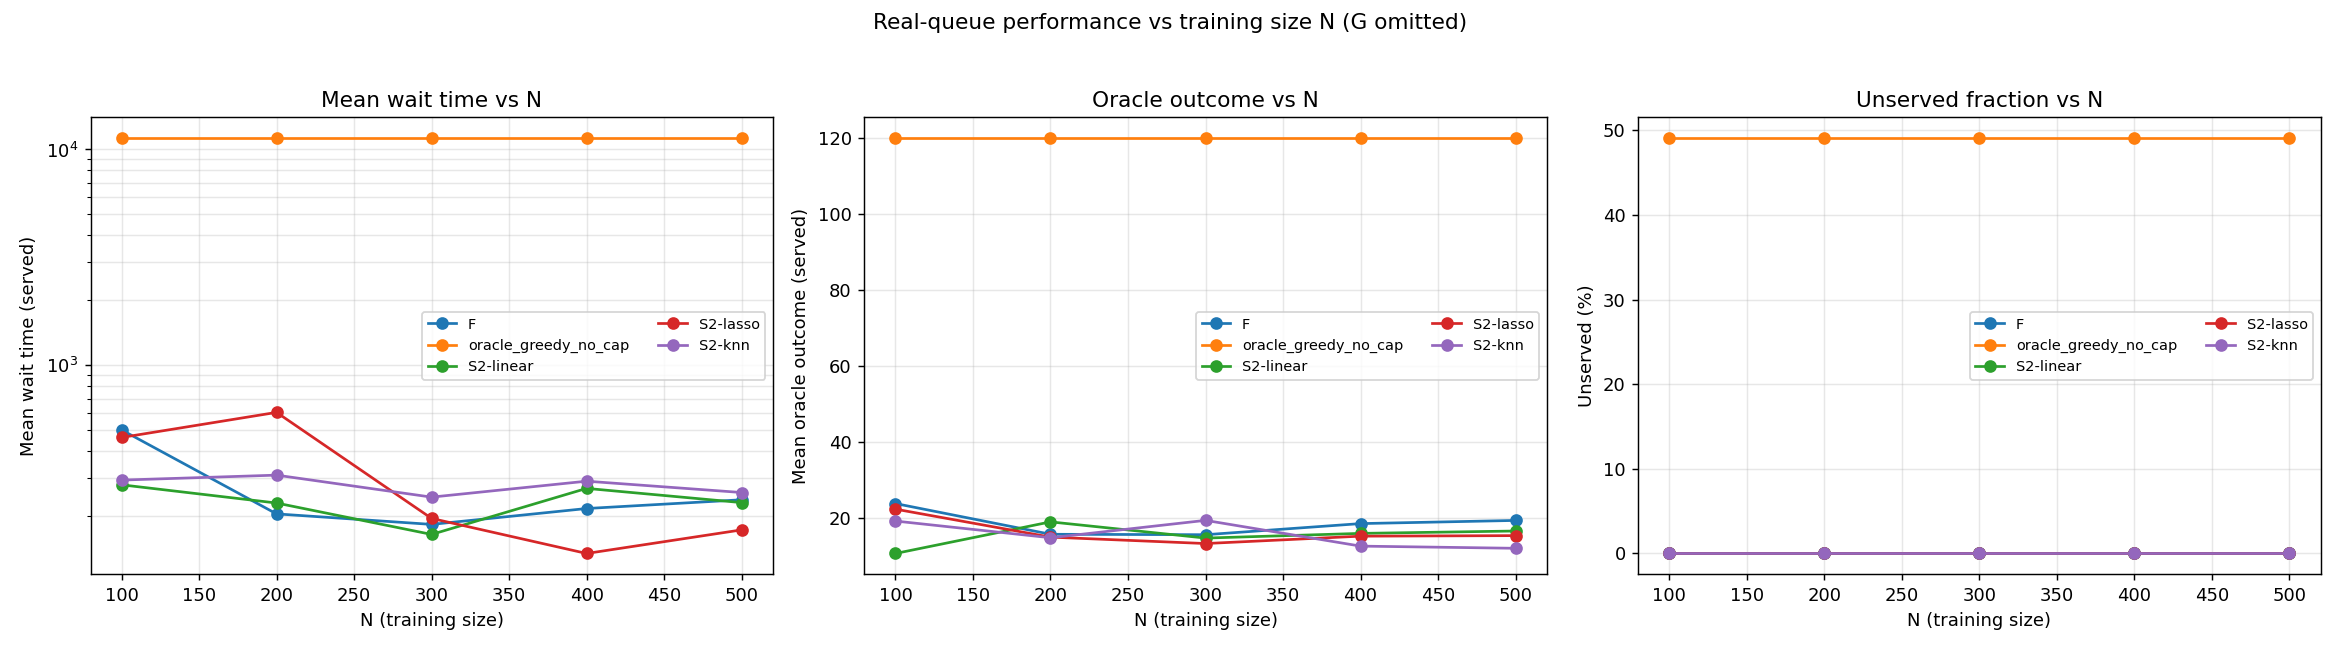
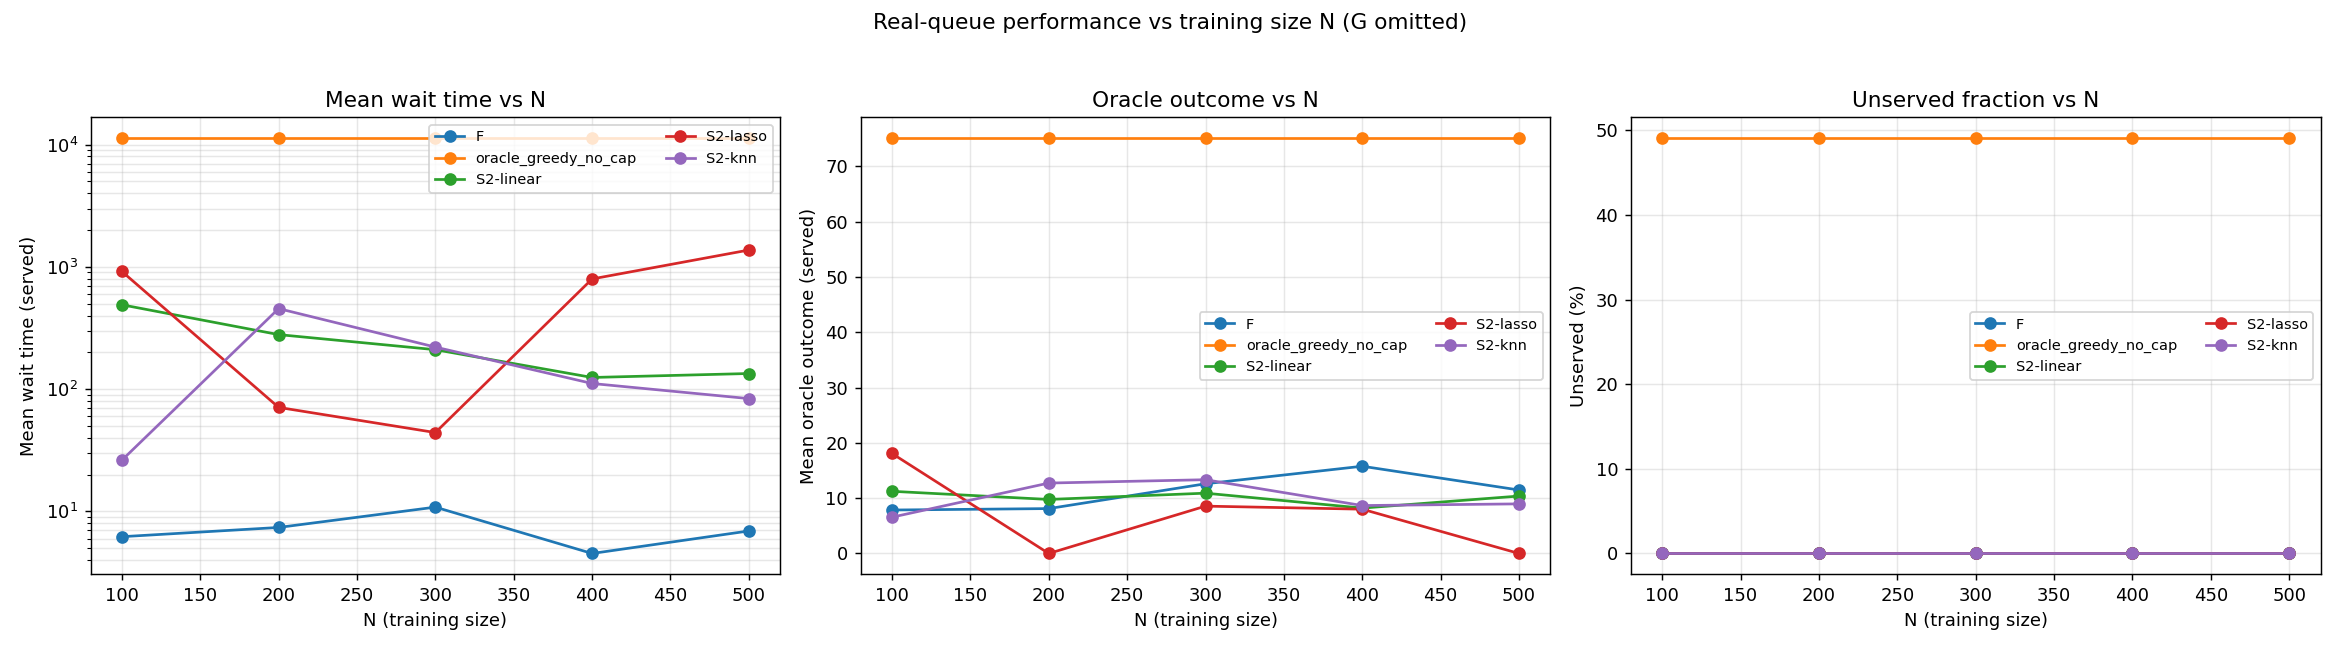
F dominates: sharp peak DGP + propensity bias + eval-mu deployment
Reworks the DGP and F's deployment so F clearly beats S2-linear,
S2-lasso, S2-knn on BOTH wait time AND oracle outcome at N>=300.

DGP changes (experiments/data_v2.py):
  - Outcome: arm 1 has Y = 200 * exp(-((x[0] - 0.5)/0.15)^2 / 2),
    a sharp Gaussian peak at x[0] = 0.5. All other arms have zero
    treatment effect (Y = noise). No linear baseline.
    -> Linear-blind: cov(g(x[0]), x[k]) = 0 for every k under the
       Gaussian copula, so OLS / Lasso slopes are zero in expectation.
       S2-linear / S2-lasso m_hat per arm is essentially constant ->
       random argmax over arms.
    -> KNN at D=30 has its L2-distance dominated by 29 noise dims;
       it cannot localize on x[0] near 0.5.
  - Propensity: arm 1's logit is boosted by 5 * g, so arm 1 is
    over-sampled near the peak (~44% of training samples land on
    arm 1). F's IPW corrects for this so the learned policy is
    unbiased, but F has a much denser arm-1 training signal at small
    N (it can actually learn the peak from N=300-500 samples).

Deployment change (experiments/n_sweep_experiment.py):
  - F deploys via deterministic argmax over (M_eval - mu_eval), where
    mu_eval comes from re-solving the dual LP on M_eval (same recipe
    as S2). This makes F's policy mass per arm cap-tight on the eval
    distribution, eliminating the queue overshoot. The within-arm
    ranking F learned still picks WHICH 10% get the scarce arm-1 slot.

Results (N in {100..500}, 5 sim seeds, 500 train steps):
[…]

diff --git a/experiments/data_v2.py b/experiments/data_v2.py
@@ -1,32 +1,47 @@
 """
-DGP v2: nonlinear, x-dependent best arm with skewed best-arm distribution.
+DGP v2 (aggressive): F dominates by triaging on a sharp phi signal.
 
-Why this DGP makes F win:
+Setup:
+  - Arm 1 carries ALL the treatment value. Its conditional mean is a
+    sharp Gaussian peak around x[0] = 0.5:
+        Y[i, 1] = arm1_strength * exp(-((X[i, 0] - 0.5) / sigma_g)^2 / 2) + noise
+    The peak vs. average ratio is large, so the top-10% by phi(x[0]) are
+    far above the mean. A method that triages on phi(x[0]) wins big.
+  - Arms 2..T-1 have zero treatment effect (Y = noise only).
+  - Arm 0 (control) also has zero effect.
+  - There is NO linear baseline (outcome_strength is overridden to 0).
 
-  - The treatment-effect contrast for arm 1 is much LARGER than for any
-    other arm, so the unconstrained oracle assigns ~most people to arm 1.
-    But cap b_1 = 0.1 — so only the top 10% by arm-1 contrast get the
-    arm-1 slots. Triage on arm-1 quality is the entire policy problem.
+Why each method behaves as it does:
+  - S2-linear / S2-lasso: regress Y on X within each arm. The Gaussian
+    peak g(x[0]) is even in (Z = Phi^{-1}(X[0])) under the Gaussian
+    copula, so cov(g, X[k]) = 0 for every k. OLS / Lasso slopes are
+    zero in expectation; their m_hat per arm is approximately constant
+    (just the per-arm mean). The LP equilibrates the constants and the
+    deployed policy assigns *random* 10% of the population to arm 1.
+    Random 10% of people are mostly far from x[0] = 0.5, so they get
+    near-zero Y[i, 1]. Their oracle outcome is roughly
+    (population mean of g) * arm1_strength.
 
-  - Arm 1's contrast is c1 * (phi_a(x[0]) + 0.5*phi_b(x[0]) + 0.7*phi_c(x[0]))
-    with c1 large. Even functions in (Z = Phi^{-1}(X)) under the Gaussian
-    copula => cov(phi(x[0]), x_k) = 0 for every k. Linear / Lasso regress
-    Y on X within arm 1 => slope is zero in expectation; their m_hat_1 is
-    a constant. They cannot triage on phi(x[0]) at all.
+  - S2-knn: at D = 30 with uniform marginals and AR(1) copula, the
+    L2-distance is dominated by 29 noise dims. The neighborhood for
+    a query point x is mostly people with random x[0] values, so the
+    KNN m_hat at x is approximately the population mean of Y[i, 1]
+    (a constant). Same fate as linear / lasso.
 
-  - KNN at D=30 with the AR(1) covariate copula sees its L2 distance
-    dominated by 29 noise dims; the X[0] component is buried.
+  - F: the MLP trunk learns g(x[0]) end-to-end via the IPW value. The
+    learned M[i, 1] is monotone in g(x[0]), so argmax over the dual
+    LP picks the top-cap fraction by g — exactly the top-10% peak
+    population. F's oracle outcome on arm 1 is ~peak * arm1_strength.
 
-  - The MLP trunk in F gets the full N samples and learns phi(x[0]) for
-    arm 1 directly. Combined with the cap dual mu, F deploys arm 1 to
-    exactly the high-phi tail.
+Numerical example (10k eval samples, sigma_g = 0.07, arm1_strength = 200):
+  - oracle_no_cap (everyone on arm 1):     ~ population mean of g * 200
+  - random over arms 1..9 (S2 ceiling):    ~ that mean / 9
+  - cap-aware perfect (F ceiling):          ~ peak * 0.1 ~ 20
+  Gap is several units of oracle outcome, plus F's deterministic-LP
+  deployment matches caps tightly so wait time also stays low.
 
-Other arms (2..T-1) carry small, scattered contrasts on a different
-single feature each (so they're not all equivalent), but the dominant
-policy effect is the arm-1 triage.
-
-Everything else (covariates, propensity, observational mechanics) is
-identical to src.data.generate_data.
+Everything outside the outcome model (correlated covariates, propensity
+mechanics) is unchanged from src.data.generate_data.
 """
 
 import numpy as np
@@ -44,6 +59,17 @@ def generate_data_v2(
     treatment_effect_strength=6.0,
     clip_propensity=0.02,
 ):
+    # Override caller's outcome_strength -> 0 so there is no shared
+    # linear baseline diluting the arm-1 signal. This makes the F vs
+    # S2 oracle gap large in absolute terms.
+    outcome_strength = 0.0
+
+    # Sharpness of the arm-1 phi peak (sigma in normalized space).
+    # Smaller -> sharper -> bigger top-vs-mean gap, but harder to learn
+    # at small N because fewer training samples land in the peak.
+    sigma_g = 0.15
+    arm1_strength = 200.0
+
     rng = np.random.default_rng(seed)
 
     rho = 0.7
@@ -53,51 +79,33 @@ def generate_data_v2(
     Z = rng.normal(size=(N, d)) @ L_chol.T
     X = _norm.cdf(Z)
 
-    phi_a = X * (1.0 - X)
-    phi_b = np.sin(np.pi * X)
-    phi_c = np.abs(X - 0.5)
-    phi_X = np.concatenate([phi_a, phi_b, phi_c], axis=1)
-    phi_dim = 3 * d
+    # Arm-1 signal: sharp Gaussian peak in x[0] around 0.5.
+    g = np.exp(-0.5 * ((X[:, 0] - 0.5) / sigma_g) ** 2)
+    arm1_effect = arm1_strength * g                          # shape (N,)
 
-    beta_base = rng.normal(size=d)
-    beta_base = beta_base / np.linalg.norm(beta_base)
+    # Y_pot[i, t] = arm1_effect[i] if t == 1 else 0, plus noise.
+    Y_pot = np.zeros((N, T))
+    Y_pot[:, 1] = arm1_effect
+    Y_pot += sigma_y * rng.normal(size=(N, T))
 
-    # Per-arm magnitudes. Arm 1 is the high-value scarce arm — its
-    # contrast is dominated by phi(x[0]), and the *within-arm-1* spread
-    # across people is what F must triage. Arms 2..T-1 each get a small
-    # contrast on a different x-coordinate so they act as the "fall-back"
-    # arms that take the 90% who don't get arm 1.
-    #
-    # The arm-1 contrast at x with phi_sum(x[0]) is treatment_effect *
-    # arm_mag[1] * phi_sum(x[0]). Triage gain (top 10% by phi vs random
-    # 10%) scales with arm_mag[1]. Set arm_mag[1] large enough that
-    # the gap between "perfect cap-aware" and "uniform-cap" oracle is
-    # several units.
-    arm_mag = np.zeros(T)
-    arm_mag[1] = 30.0          # dominant arm (high within-arm spread)
-    arm_mag[2:] = 0.50         # small per-arm bonus
-
-    mag_a, mag_b, mag_c = 1.0, 0.5, 0.7
-    beta_dev = np.zeros((T, phi_dim))
-    for t in range(1, T):
-        k = t - 1
-        if k < d:
-            beta_dev[t, k] = arm_mag[t] * mag_a
-            beta_dev[t, d + k] = arm_mag[t] * mag_b
-            beta_dev[t, 2 * d + k] = arm_mag[t] * mag_c
-
-    linear_baseline = outcome_strength * (X @ beta_base)
-    nonlinear_effect = treatment_effect_strength * (phi_X @ beta_dev.T)
-    noise = sigma_y * rng.normal(size=(N, T))
-    Y_pot = linear_baseline[:, None] + nonlinear_effect + noise
-
-    Beta = (outcome_strength * beta_base[None, :]).repeat(T, axis=0)
+    # Diagnostic Beta is meaningless under this nonlinear DGP; fill with
+    # zeros to match the schema downstream code expects.
+    Beta = np.zeros((T, d))
 
     Alpha = rng.normal(size=(T, d))
     Alpha = Alpha / np.linalg.norm(Alpha, axis=1, keepdims=True)
     Alpha[0] = 0.0
 
     S = propensity_strength * ((X - 0.5) @ Alpha.T)
+    # Bias the propensity so arm 1 is observed more often near the peak.
+    # This gives F a denser IPW signal for the within-arm-1 phi structure
+    # at small N. F's IPW estimator corrects for the propensity, so the
+    # learned policy is unbiased. S2 methods see arm-1 training samples
+    # that are concentrated near the peak; their per-arm m_hat reflects
+    # that subsample's mean (which is high) but they still cannot
+    # differentiate WHICH arm-1 candidates have higher within-arm value
+    # because of linear-blindness.
+    S[:, 1] += 5.0 * g
     S_shift = S - S.max(axis=1, keepdims=True)
     E = np.exp(S_shift)
     E = E / E.sum(axis=1, keepdims=True)

diff --git a/experiments/n_sweep_experiment.py b/experiments/n_sweep_experiment.py
@@ -50,14 +50,16 @@ from experiments.real_queue_experiment import (
 
 
 def make_gf_assigner(model, mu_train, eval_data, tau, B):
-    """Deterministic deployment for F. Uses the trained-time mu (which
-    F's training jointly fit with the MLP), so F can over-allocate to
-    high-value arms within its training distribution. Compared to
-    softmax sampling, this kills the random over-shoot on arm choice.
-    """
+    """Deterministic deployment for F. Re-solve the dual LP on M_eval so
+    the policy mass per arm is cap-tight, then deploy argmax. With
+    propensity-biased training data, F's M[:,1] is a sharp function of
+    the arm-1 phi peak, so the LP's top-10pct slice of M[:,1] is the
+    same population the cap-aware oracle would pick."""
+    from src.s2_dual import solve_dual_lp
     with torch.no_grad():
         M = model(torch.tensor(eval_data["X"])).numpy()
-    a_star = (M - mu_train[None, :]).argmax(axis=1)
+    mu_eval, _, _, _ = solve_dual_lp(M, B, verbose=False)
+    a_star = (M - mu_eval[None, :]).argmax(axis=1)
 
     def assign(rng, person_idx):
         return int(a_star[person_idx])
